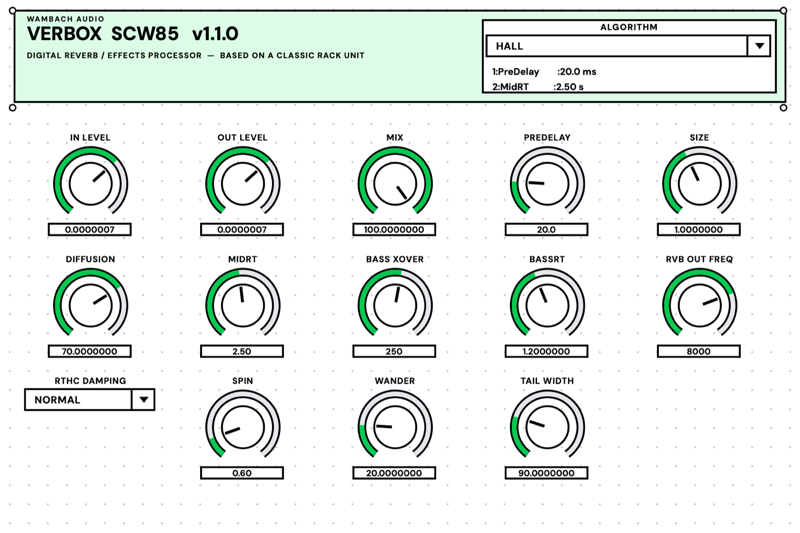
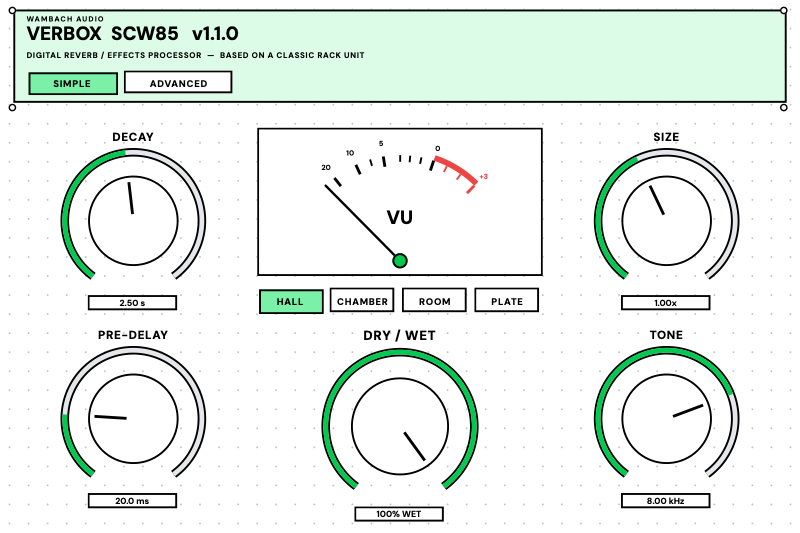
Update Verbox SCW85 screenshot and description for the Simple view

diff --git a/README.md b/README.md
@@ -55,7 +55,9 @@ A character compressor with eight curves, from a gentle 1:1 up to an all-out
 ## Verbox SCW85
 
 A digital reverb and effects processor based on a classic rack unit, with
-several algorithms and detailed control over decay, diffusion and tone.
+several algorithms. A Simple view keeps it to decay, size, pre-delay, tone
+and mix; the Advanced view gives detailed control over decay, diffusion and
+tone.
 
 <img src="images/verbox-scw85.png" alt="Verbox SCW85" width="600">
 
